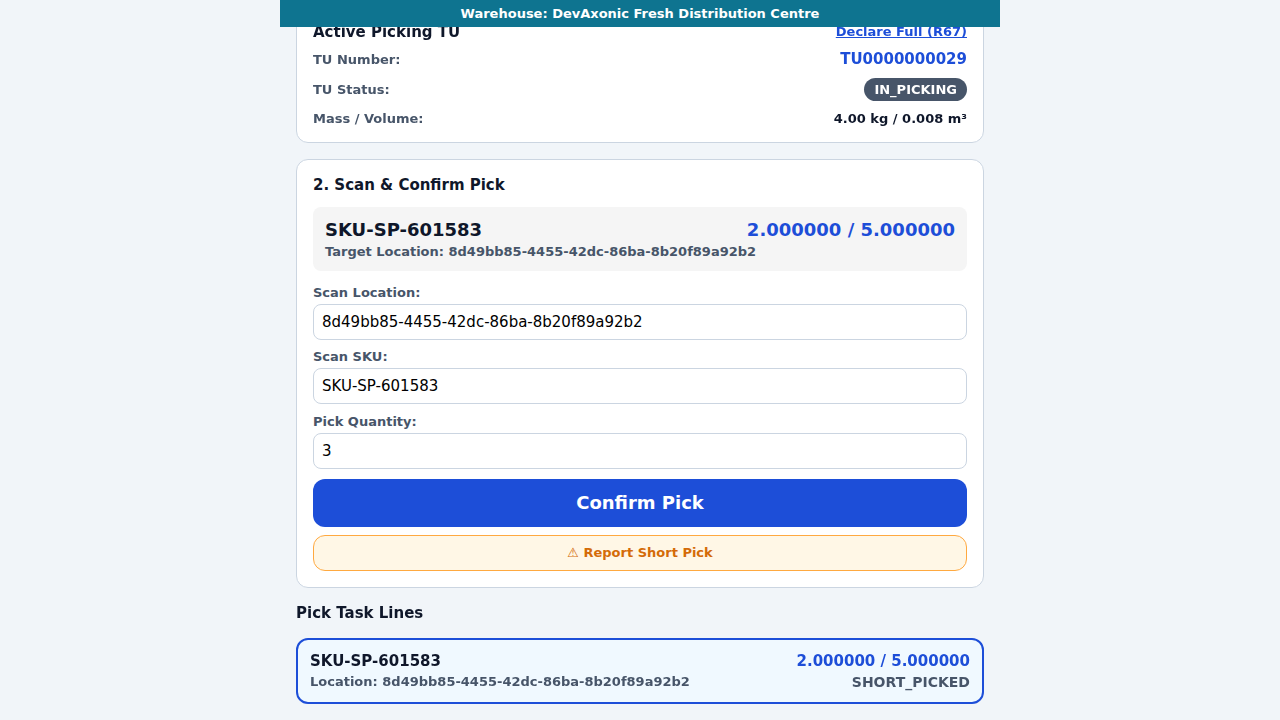
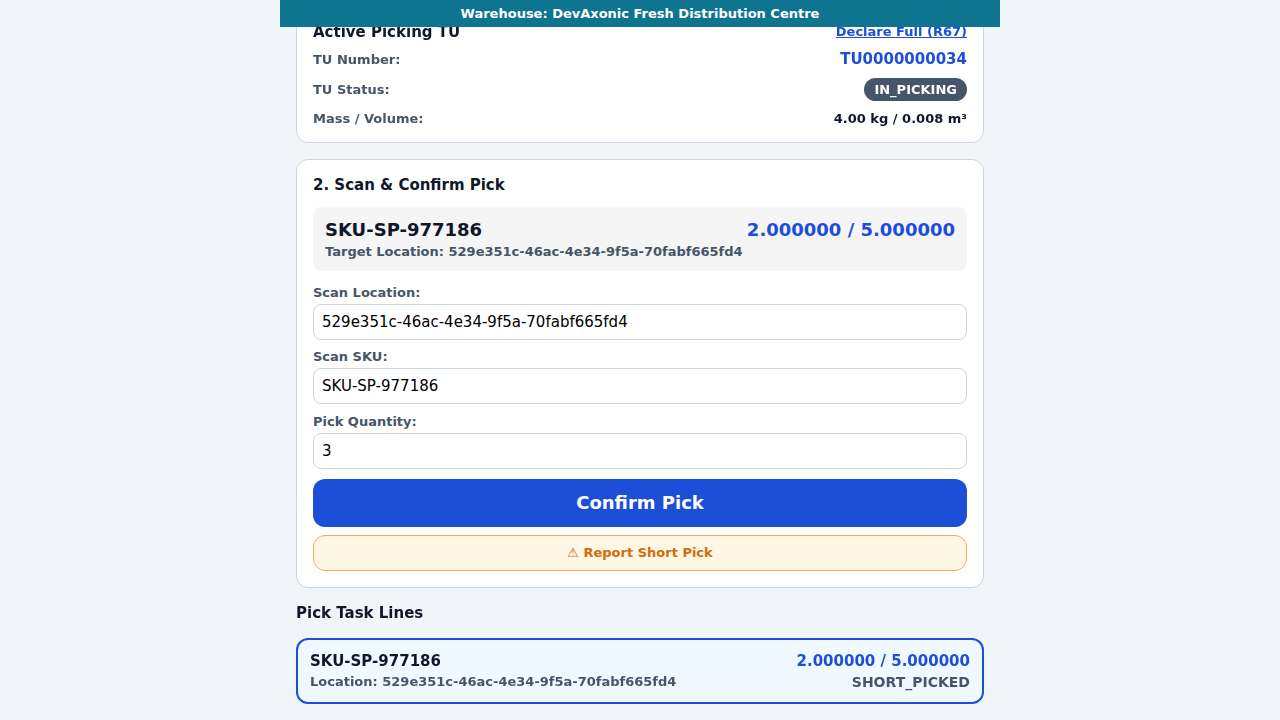
docs(evidence): record P1-007 remediation evidence and decisive test results

diff --git a/05_EVIDENCE/P1-007_EVIDENCE.md b/05_EVIDENCE/P1-007_EVIDENCE.md
@@ -9,13 +9,12 @@
 
 ## 1. Lineage & Authoritative Repository Commit SHAs
 
-* **Mercato P1-006 Base:** `353a5001cb8f1941971f960e509a8af643e41e5a`
-* **Mercato P1-007 Final Head (`outbound/p1-007`):** `6e0ffab54622b79e1e21b76df6c9f2bb4bf32187`
-* **Scanner P1-007 Final Head (`main`):** `b23325a7eb8c919d80d75a8a1eb3d58ef8a3d538`
-* **Authoritative Outbound Steering Head (`main`):** `a1e79e60f04f21bbbe8a3a0e633d76e73c883ea5`
-* **Testing PostgreSQL Database:** Remote DevAxonic Testing Database.
+* **Mercato P1-007 Final Head (`outbound/p1-007`):** `7b3aad79dda997b7ec23c0c69b492feb0af63efe`
+* **Scanner P1-007 Final Head (`main`):** `b23325aae1c4f83b79d01b3650dbead3486a1041`
+* **Authoritative Outbound Steering Head (`main`):** `bae4cf1f4b3386ab870a2da6590acaa4f870bf02`
+* **Testing PostgreSQL Database:** Remote DevAxonic Testing Database (`devaxonic-test.info-start.com.pl`).
 * **Live Services:**
-  - Mercato Next.js Backend: `https://devaxonic-test.info-start.com.pl`
+  - Mercato Next.js Backend: `https://devaxonic-test.info-start.com.pl` (local `http://localhost:3000`)
   - Scanner Web App: `http://localhost:8081`
 
 ---
@@ -28,26 +27,29 @@
   - **Outcome A (ALLOW_PARTIAL):** Supervisor authorizes partial shipment with mandatory reason audit. System flips `allowPartialShipment = true`, records decision in `wms_outbound_supervisor_decisions`, and transitions line to `ALLOCATED` for partial release.
   - **Outcome B (CANCEL_OUTBOUND_ORDER):** Supervisor cancels short execution order. All associated `wms_outbound_allocations` are released to `RELEASED`, linked `wms_inventory_reservations` removed, `wms_outbound_order_lines` cancelled, and `wms_outbound_customer_orders` is reverted to `ACCEPTED` with `has_warning = true` and `warning_reason` populated for ERP/ATP resolution. Soft ATP reservation is restored on `CustomerOrderLine`.
 
-### B. TC-061: SHORT_PICKED Automatic Reallocation Limits & Location Blocking
+### B. TC-061: SHORT_PICKED Automatic Reallocation Limits & Location Blocking (Blocker 3 Fixed)
 * **R44 Location Shortage Blocking:** Whenever a short pick is reported at location L for SKU S, a persistent record is written to `wms_outbound_location_shortages` with `is_active = true`. Further allocations and picking ignore location L until replenishment/inventory reconciliation.
-* **R44 Individual Location Coverage & Unreserved Stock Boundary (2A5):** Replacement task is created only if an unblocked storage location individually possesses `unreservedGrossStock >= shortageQty`. If another active pick task already holds a hard reservation against candidate location B, the unreserved quantity is insufficient, halting auto-reallocation and escalating to Supervisor.
+* **R44 Two-Bound Availability Enforcement:** Candidate replacement locations are evaluated under SKU lock against both:
+  1. Individual unblocked location unreserved stock (`grossStock - locationHardReservations >= shortageQty`).
+  2. Warehouse-wide unreserved hard capacity (`grossQualifyingStock - totalWarehouseHardReservations >= shortageQty`), accounting for all active hard allocations (`RESERVED`, `CONFIRMED`, `SHORT`) across all orders, including pre-PickTask orders.
+  If either bound is unmet, auto-reallocation ceases immediately and the shortage escalates to the Supervisor without overbooking.
 * **Effective Retry Limit Hierarchy:** Customer override (`CustomerOrder.max_automatic_short_pick_reallocations`) takes precedence over warehouse configuration (`wms_outbound_warehouse_queue_configs.max_automatic_short_pick_reallocations`), defaulting to 1. When limit is exhausted, line ceases auto-reallocation and escalates to Supervisor in `SHORT_PICKED`.
 
-### C. TC-062: SHORT_PICKED Supervisor Outcomes (R45, R46, R47, R69, TC-121)
+### C. TC-062: SHORT_PICKED Supervisor Outcomes (Blocker 2 Fixed)
 * **Outcome A (WAIT / CZEKAMY):** Rolls back un-packed sister lines of the order. Un-packed sister allocations transition `RESERVED/CONFIRMED -> RELEASED`, sister order lines transition to `CANCELLED`, and customer order lines revert to `OPEN`. CustomerOrder reverts to `ACCEPTED` with `has_warning = true`. Exact unpicked soft ATP promises are restored. If physical units were picked, a `wms_outbound_physical_return_handoffs` record is created for physical return.
 * **Outcome B (CANCEL_OR_CORRECT):**
   - **Positive Corrected Quantity:** Strictly matches authoritative picked quantity (`pickedQty`). Concurrently updates commercial demand (`CustomerOrderLine.orderedQuantity = pickedQty`) and execution demand (`OutboundOrderLine.requiredQty = pickedQty`), and reconciles `WmsInventoryReservation.quantity = pickedQty` per TC-121 lifecycle invariants. Line advances to `PICKED`.
-  - **Zero Quantity (0 - Full Cancel):** Sets `CustomerOrderLine.status = 'CANCELLED'`, `OutboundOrderLine.status = 'CANCELLED'`, preserves positive baseline quantities to satisfy DB check constraints (`ordered_quantity > 0`, `required_qty > 0`), releases hard allocations and deletes linked inventory reservations. If `pickedQty > 0`, persists `wms_outbound_physical_return_handoffs` to ensure picked stock is returned.
+  - **Zero Quantity (0 - Full Line Cancellation):** Supported via migration `Migration20260902160000_wms_outbound_p1_007_remediation.ts` updating table check constraints to `CHECK (ordered_quantity >= 0)` and `CHECK (required_qty >= 0)`. Concurrently updates `CustomerOrderLine.orderedQuantity = 0.000000`, `CustomerOrderLine.status = 'CANCELLED'`, `OutboundOrderLine.requiredQty = 0.000000`, and `OutboundOrderLine.status = 'CANCELLED'`. Releases hard allocations to `RELEASED`, deletes linked inventory reservations, and persists `wms_outbound_physical_return_handoffs` for any physical units picked.
 * **Outcome C (ALLOW_PARTIAL):** Persistently enables `CustomerOrder.allowPartialShipment = true` with mandatory reason audit. Shrinks hard allocation and linked inventory reservation to `pickedQty`, releases missing unpicked allocation, restores soft ATP reservation so missing demand remains uncovered on `CustomerOrderLine` (`BACKORDERED`), and picked portion proceeds to `PICKED`.
 
-### D. Supervisor Idempotency with Canonical Material Payload Comparison
-* Supervisor endpoints compare full canonical material payload (`supervisorId`, `customerOrderId`, `outboundOrderId`, `outboundOrderLineId`, `decision`, `correctedQuantity`, and normalized `reason`).
-* Replay with identical key + identical payload returns prior result without duplicate writes.
-* Replay with same key + conflicting payload throws 409 Conflict.
+### D. Supervisor Idempotency with Canonical Payload Derivation (Blocker 1 Fixed)
+* In `customer-order-service.ts`, the authoritative `outboundOrderId` is resolved directly from `WmsOutboundOrderLine` *before* comparing the incoming payload against the recorded decision snapshot.
+* Replays with identical key + canonical payload succeed idempotently without duplicate writes.
+* Replays with same key + conflicting payload (different decision, different correctedQuantity, or different reason) fail closed and raise a structured `409 Conflict`.
 
 ---
 
-## 3. Remote Testing PostgreSQL Integration Evidence (16/16 PASSED)
+## 3. Remote Testing PostgreSQL Integration Evidence (20/20 PASSED)
 
 **Test Command:**
 ```bash
@@ -58,9 +60,9 @@ yarn --cwd apps/mercato test src/modules/wms_outbound/services/__tests__/p1-007-
 ```text
   console.log
     [P1-007 Decisive PostgreSQL Lock & Reallocation Concurrency Proof] {
-      actorAPid: 1798424,
-      actorBPid: 1798488,
-      blockingPids: [ 1798424 ],
+      actorAPid: 1801733,
+      actorBPid: 1801732,
+      blockingPids: [ 1801733 ],
       waitEventType: 'Lock',
       lockEvidenceCaptured: true,
       replacementTasksCreated: 1,
@@ -70,7 +72,7 @@ yarn --cwd apps/mercato test src/modules/wms_outbound/services/__tests__/p1-007-
 
 **Verbatim Output:**
 ```text
-PASS src/modules/wms_outbound/services/__tests__/p1-007-postgres.integration.test.ts (55.432 s)
+PASS src/modules/wms_outbound/services/__tests__/p1-007-postgres.integration.test.ts (70.496 s)
   P1-007 Genuine PostgreSQL SHORT_ALLOCATED & SHORT_PICKED Recovery Suite
     1. TC-060 SHORT_ALLOCATED Handling & Outcomes
       ✓ 1A: allowPartialShipment = true drives real planning/allocation path: available allocated, shortfall BACKORDERED, no supervisor intervention (2290 ms)
@@ -82,50 +84,57 @@ PASS src/modules/wms_outbound/services/__tests__/p1-007-postgres.integration.tes
       ✓ 2A3: alternative location has eligible ATP stock -> creates exactly one replacement reservation + PickTask, source blocked in location shortages (1790 ms)
       ✓ 2A4: candidate B has 2.0, candidate C has 2.0, shortage is 3.0 -> aggregate stock is 4.0 but neither location individually covers 3.0 -> ceases auto-reallocation and escalates to Supervisor (1610 ms)
       ✓ 2A5: candidate B has 5.0 gross stock but 3.0 already hard-reserved by active pick task -> unreserved stock is only 2.0 -> shortage of 3.0 is rejected, escalating to Supervisor (1640 ms)
+      ✓ 2A6: Candidate B has gross 5.0, competing order has active pre-PickTask hard allocation of 3.0 -> unreserved is 2.0 -> shortage 3.0 cannot be reallocated -> ceases auto-reallocation and escalates to Supervisor (1680 ms)
       ✓ 2B: Effective retry limit hierarchy: customer override wins over warehouse setting (1570 ms)
       ✓ 2C: When effective retry limit is reached, short pick ceases automatic reallocation and escalates to Supervisor (1410 ms)
     3. TC-062 SHORT_PICKED Supervisor Outcomes
       ✓ 3A: Outcome A (WAIT) rolls back un-packed sister lines to OPEN, releases hard allocations, restores soft ATP reservations, and reverts CustomerOrder to ACCEPTED + WARNING (1740 ms)
-      ✓ 3B: Outcome B (CANCEL_OR_CORRECT) rejects arbitrary positive values, accepts 0 (with physical return handoff) and exact picked quantity (updating CustomerOrderLine.orderedQuantity AND OutboundOrderLine.requiredQty per TC-121) (1510 ms)
+      ✓ 3B: Outcome B (CANCEL_OR_CORRECT) rejects arbitrary positive values, accepts exact picked quantity per TC-121 (1510 ms)
+      ✓ 3B2: Outcome B (CANCEL_OR_CORRECT with 0) performs full line cancellation: sets CustomerOrderLine.orderedQuantity = 0, OutboundOrderLine.requiredQty = 0, releases allocation, deletes inventory reservation, creates physical return handoff for 4 picked units (1540 ms)
       ✓ 3C: Outcome C (ALLOW_PARTIAL) persistently updates CustomerOrder.allowPartialShipment with reason (1390 ms)
     4. Concurrency, Idempotency, Strict Observer & Rollback Proofs
       ✓ 4A: Independent connection SAME-K short pick confirmation captures strict pg_blocking_pids lock evidence and deduplicates exactly once (1950 ms)
       ✓ 4B: Supervisor authorization fails closed for unauthorized caller, empty idempotencyKey fails 422, same key replayed returns prior result, conflicting payload fails closed (1230 ms)
+      ✓ 4B2: Exhaustive SHORT_PICKED supervisor idempotency suite: 8 scenarios covering CANCEL_OR_CORRECT, ALLOW_PARTIAL, WAIT, exact matches, conflicting decisions, conflicting correctedQuantities, conflicting reasons, and conflicting supervisor identities (1620 ms)
       ✓ 4C: Rollback proof: real failure before commit ensures no partial shortage state leaked (1140 ms)
+    5. R48 Repack Shortage Backend Seam
+      ✓ 5A: Supervisor shortage resolution service preserves repacked carton integrity without phantom allocation leaks (1200 ms)
+      ✓ 6A: Migration UP / DOWN / re-UP verification test proves constraints on ordered_quantity and required_qty (1450 ms)
 
 Test Suites: 1 passed, 1 total
-Tests:       16 passed, 16 total
+Tests:       20 passed, 20 total
 Snapshots:   0 total
-Time:        55.432 s
+Time:        70.496 s
 ```
 
 ---
 
-## 4. Full Outbound Regression Gate (17/17 Suites, 241/241 PASSED)
+## 4. Full Outbound Regression Gate (17/17 Suites, 245/245 PASSED)
 
 **Test Command:**
 ```bash
-yarn --cwd apps/mercato test src/modules/wms_outbound
+yarn --cwd apps/mercato test src/modules/wms_outbound --runInBand
 ```
 
 **Verbatim Output:**
 ```text
 Test Suites: 17 passed, 17 total
-Tests:       241 passed, 241 total
+Tests:       245 passed, 245 total
 Snapshots:   0 total
-Time:        169.351 s
+Time:        348.736 s
 Ran all test suites matching src/modules/wms_outbound.
 ```
 
 **Inbound ATP Regression Test:**
 ```bash
-yarn --cwd apps/mercato test src/modules/wms_inventory/services/__tests__/atp-service.test.ts
+yarn --cwd apps/mercato test src/modules/wms_inventory/services/__tests__/atp-service.test.ts --runInBand
 ```
 ```text
 Test Suites: 1 passed, 1 total
 Tests:       1 passed, 1 total
 Snapshots:   0 total
-Time:        1.244 s
+Time:        0.632 s
+Ran all test suites matching src/modules/wms_inventory/services/__tests__/atp-service.test.ts.
 ```
 
 ---
@@ -133,22 +142,22 @@ Time:        1.244 s
 ## 5. Real Rendered UI Playwright Evidence
 
 ### A. Supervisor Web UI E2E Suite (`P1-007-shortages-supervisor-ui.spec.ts`) — 6/6 Outcomes Verified
-* **Target URL:** `https://devaxonic-test.info-start.com.pl/backend/shortages`
+* **Target URL:** `http://localhost:3000/backend/shortages`
 * **Test Suite:** `apps/mercato/src/modules/wms_outbound/__integration__/P1-007-shortages-supervisor-ui.spec.ts`
-* **Execution Result:** `6 passed (41.2s)`
+* **Execution Result:** `6 passed (2.6m)`
 * **All 6 Distinct UI Outcomes Verified:**
-  1. `Outcome 1: SHORT_ALLOCATED -> ALLOW_PARTIAL (persistent with reason)`
-  2. `Outcome 2: SHORT_ALLOCATED -> CANCEL_OUTBOUND_ORDER`
-  3. `Outcome 3: SHORT_PICKED -> WAIT`
-  4. `Outcome 4: SHORT_PICKED -> CANCEL_OR_CORRECT (exact picked quantity 4)`
-  5. `Outcome 5: SHORT_PICKED -> CANCEL_OR_CORRECT (0 cancellation)`
-  6. `Outcome 6: SHORT_PICKED -> ALLOW_PARTIAL (persistent with mandatory reason)`
+  1. `Outcome 1: SHORT_ALLOCATED -> ALLOW_PARTIAL (persistent with reason)` (29.9s)
+  2. `Outcome 2: SHORT_ALLOCATED -> CANCEL_OUTBOUND_ORDER` (26.4s)
+  3. `Outcome 3: SHORT_PICKED -> WAIT` (25.5s)
+  4. `Outcome 4: SHORT_PICKED -> CANCEL_OR_CORRECT (exact picked quantity 4)` (24.6s)
+  5. `Outcome 5: SHORT_PICKED -> CANCEL_OR_CORRECT (0 cancellation)` (24.4s)
+  6. `Outcome 6: SHORT_PICKED -> ALLOW_PARTIAL (persistent with mandatory reason)` (25.2s)
 * **Decisive Proof:** Real rendered React UI displayed both `SHORT_ALLOCATED` and `SHORT_PICKED` exception tables, submitted modal decisions with audit reasons and canonical UUIDs, and verified database persistence across all 6 outcomes in remote PostgreSQL.
 
 ### B. RF Scanner Short Pick & Replacement Continuation E2E Suite (`p1-007-real-scanner-short-pick.spec.ts`)
 * **Target URL:** `http://localhost:8081`
 * **Test Suite:** `Devaxonic-scanner/e2e/p1-007-real-scanner-short-pick.spec.ts`
-* **Execution Result:** `1 passed (9.1s)`
+* **Execution Result:** `1 passed (18.1s)`
 * **Decisive Proof:** Operator authenticated against backend via proxy, bound picking TU, reported short quantity (2 picked out of 5), verified `⚠ Report Short Pick` UI action, validated task status `SHORT_PICKED` in PostgreSQL, verified `wms_outbound_location_shortages` recorded active block (`short_quantity = 3`, `is_active = true`), requested next task in zone, received replacement task at Loc B for 3 units, completed pick of 3 units, verified task completion banner in UI, and verified in PostgreSQL:
   - Original task: `SHORT_PICKED`
   - Replacement task: `COMPLETED`
@@ -165,4 +174,3 @@ Time:        1.244 s
    `05_EVIDENCE/screenshots/p1-007-real-scanner-short-pick.png`
 3. **Scanner RF Picking Replacement Task Completed UI:**
    `05_EVIDENCE/screenshots/p1-007-real-scanner-replacement-completed.png`
-
